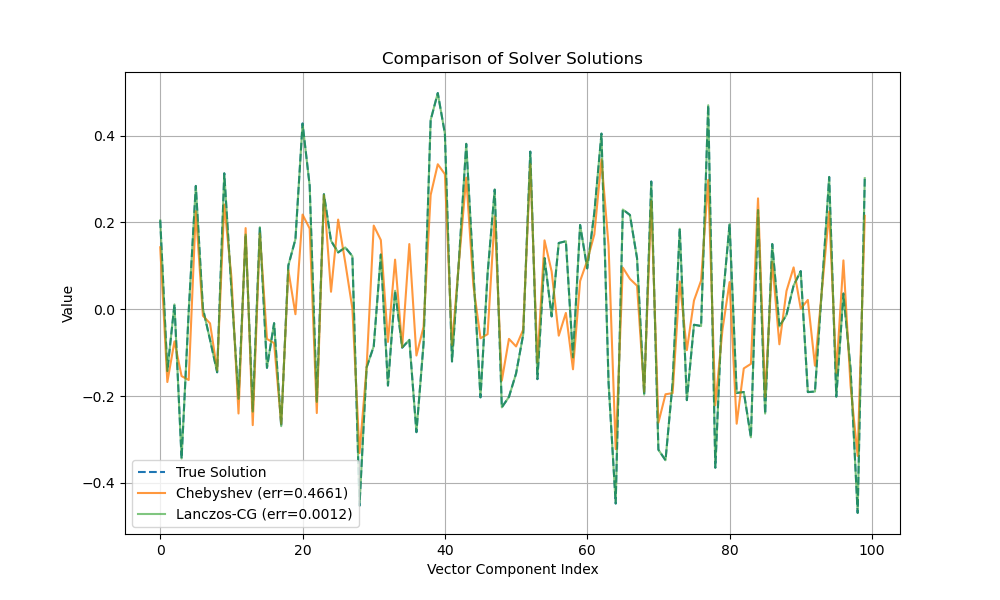
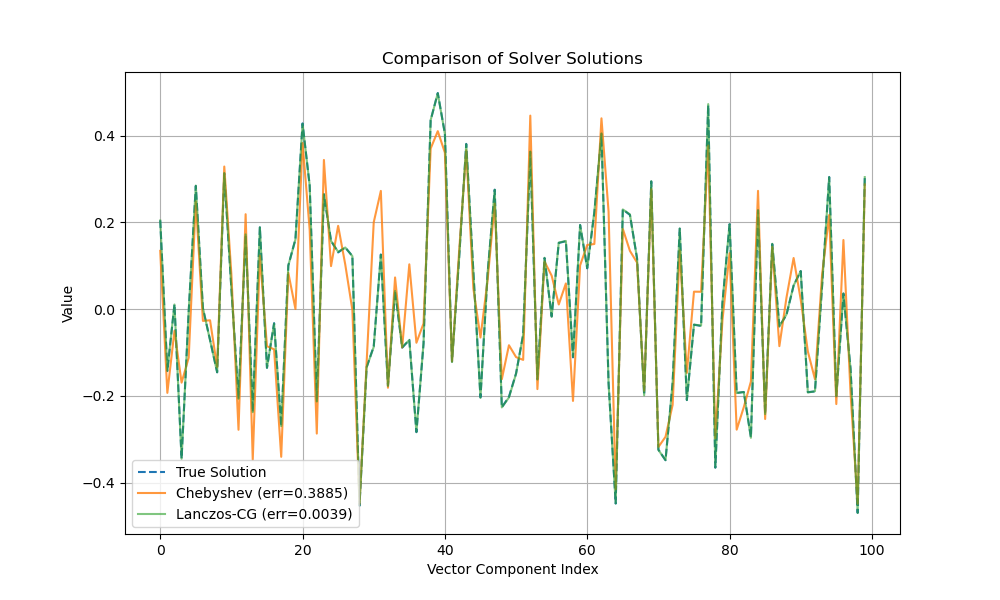
Add files via upload

diff --git a/chebyshev_solver/main.py b/chebyshev_solver/main.py
@@ -82,7 +82,9 @@ def chebyshev_sqrt_solver(A_op, b, lambda_min, lambda_max, degree=20):
     # --- FIX: Use Chebyshev Nodes for fitting ---
     # Generate roots of the Chebyshev polynomial of degree 'num_points'
     # These cluster at the edges (-1 and 1) to prevent Runge's phenomenon.
-    num_points = degree + 1  # Or higher, e.g., 100
+    # num_points = degree + 1  # Or higher, e.g., 100
+    # k = np.arange(1, num_points + 1)
+    num_points = 2 * degree + 1
     k = np.arange(1, num_points + 1)
     cheb_nodes = np.cos((2 * k - 1) / (2 * num_points) * np.pi)
 
@@ -108,20 +110,17 @@ def chebyshev_sqrt_solver(A_op, b, lambda_min, lambda_max, degree=20):
     return res
 
 def chebyshev_solver_main(A_op, b, lanczos_steps=30, chebyshev_degree=20):
-    """
-    Main solver that combines eigenvalue estimation and Chebyshev approximation.
-    """
     lambda_min, lambda_max = estimate_eigenvalues(A_op, n_steps=lanczos_steps)
 
-    # --- FIX: Apply Spectral Padding ---
-    # Expand the range by a small factor (e.g., 5-10%) to ensure
-    # the true eigenvalues lie strictly within the mapping interval.
-    spectral_width = lambda_max - lambda_min
-    padding = 0.05 * spectral_width
+    # --- FIXED PADDING LOGIC ---
+    # Pad the upper bound comfortably (linear functions are safe here)
+    lambda_max = lambda_max * 1.05
 
-    lambda_min = lambda_min - padding
-    lambda_max = lambda_max + padding
-    # -----------------------------------
+    # Pad the lower bound RELATIVE to itself.
+    # Do NOT subtract a fraction of the total width.
+    # We want a margin, but we must stay away from the singularity at 0.
+    lambda_min = lambda_min * 0.9
+    # ---------------------------
 
     # Add a small shift to avoid singularity (and ensure min > 0)
     lambda_min = max(lambda_min, 1e-6)
